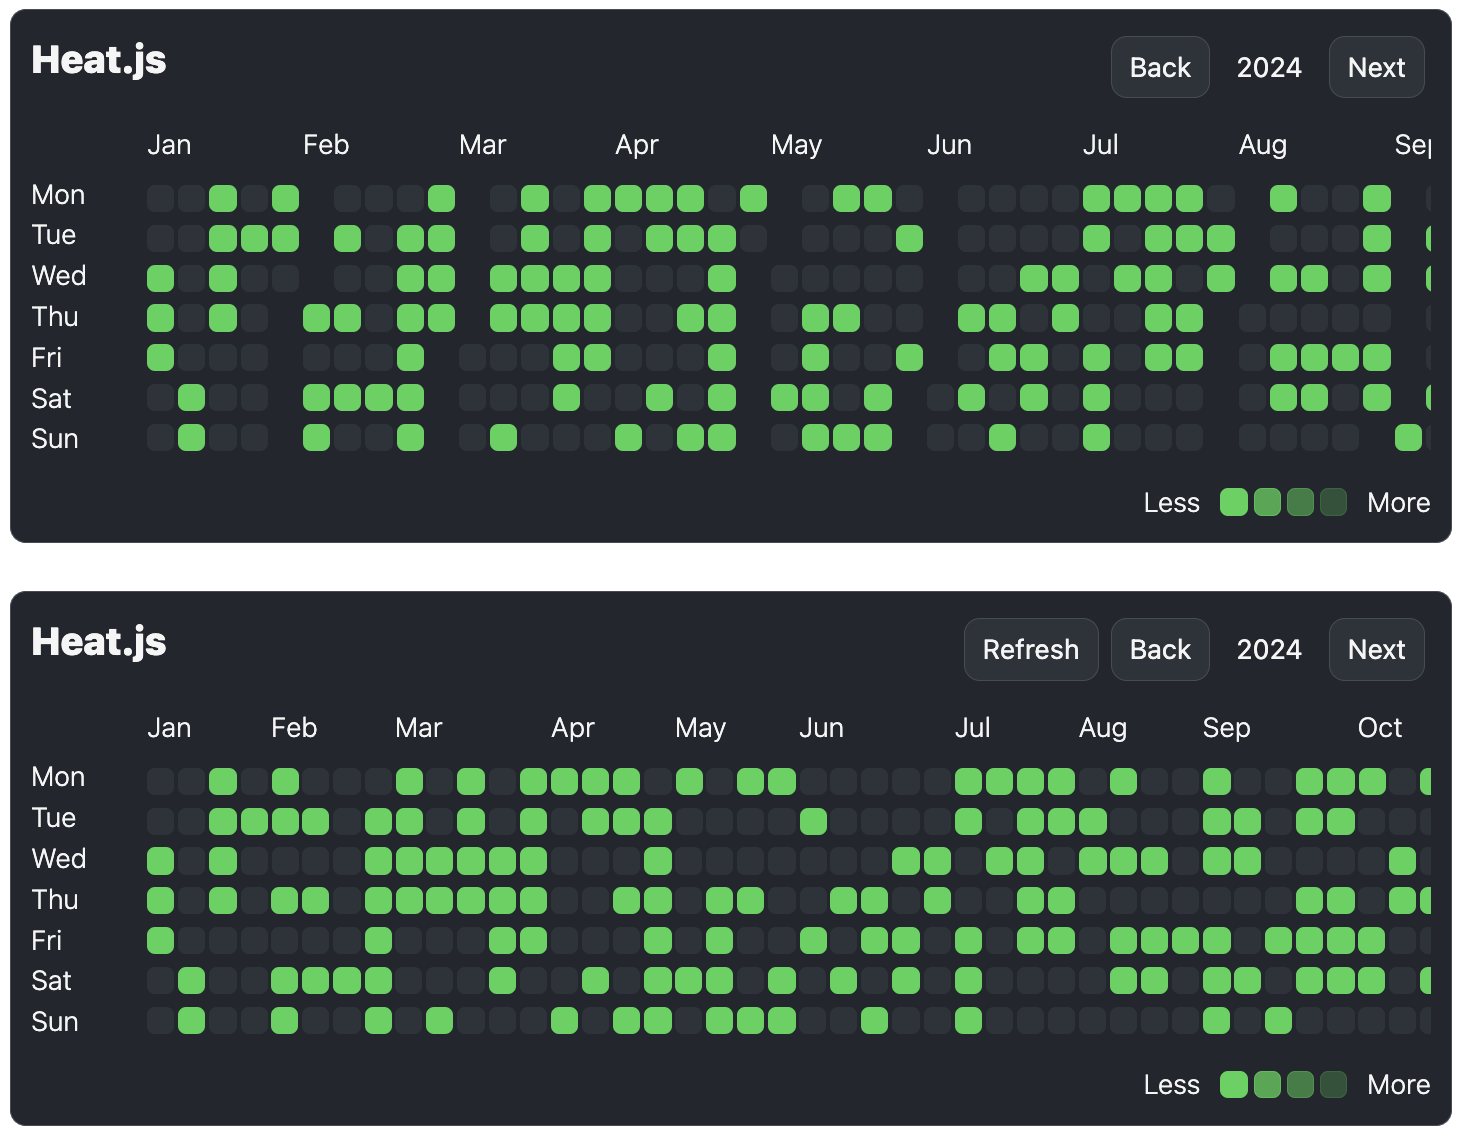
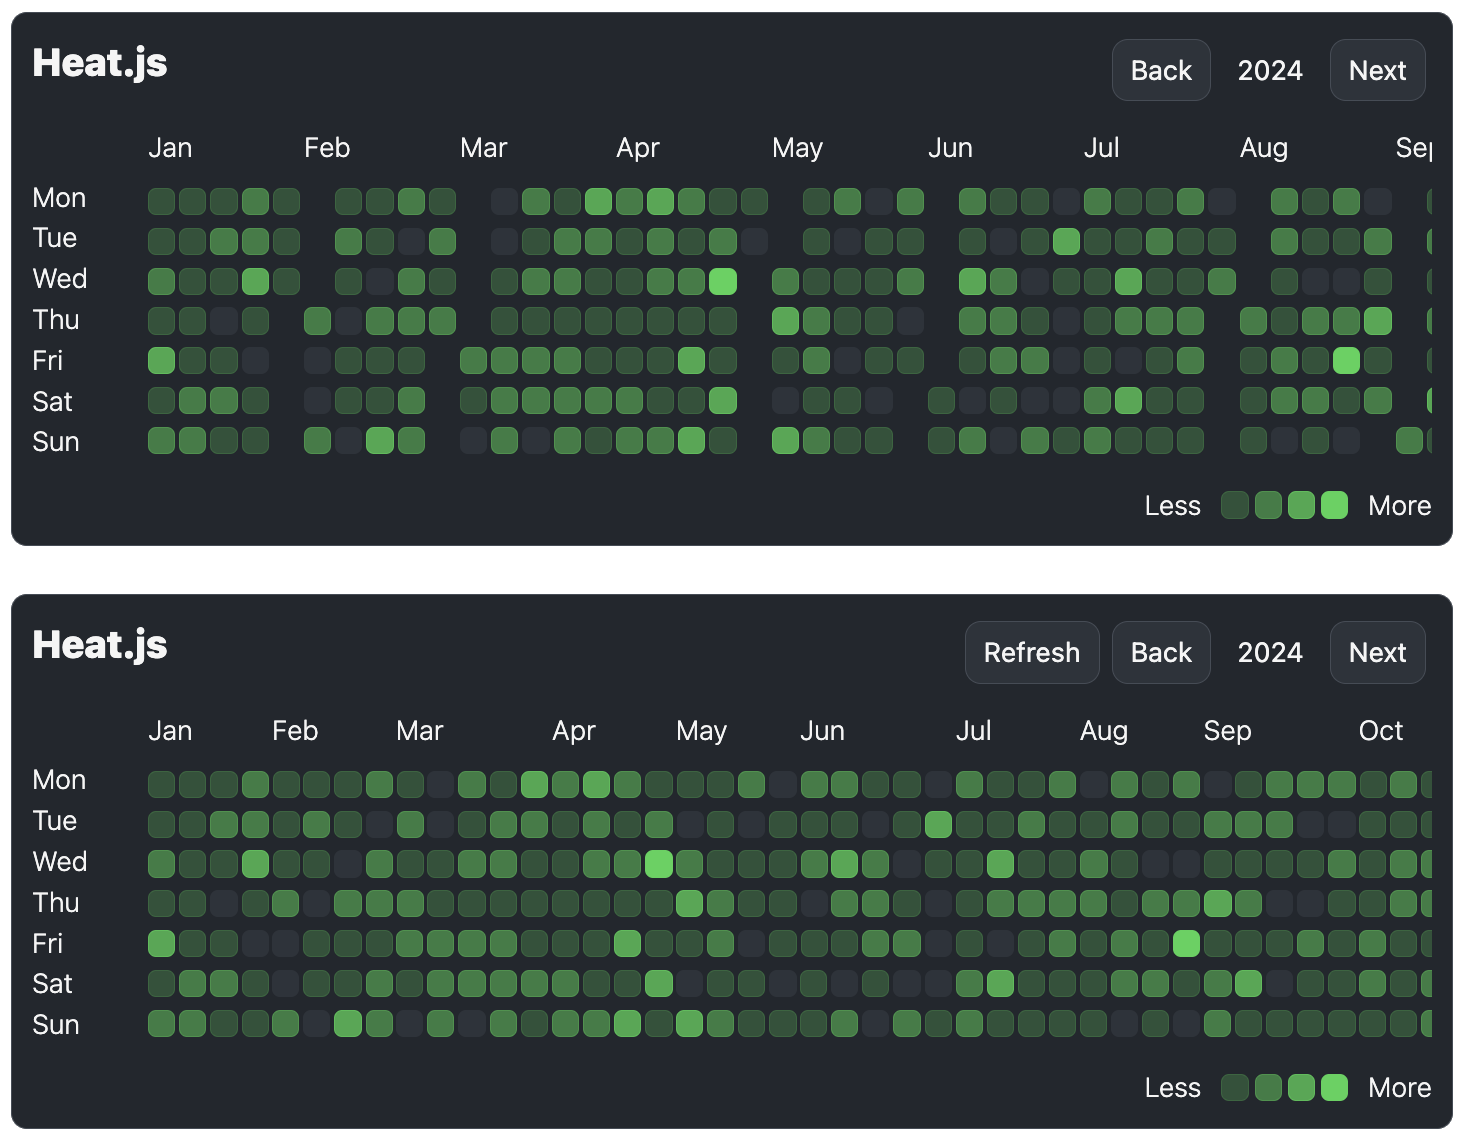
Updated the main image.

diff --git a/test/dist/heat.js.bootstrap.html b/test/dist/heat.js.bootstrap.html
@@ -76,7 +76,7 @@
         function updateDates( remove ) {
             var date = new Date( new Date().getFullYear(), 0, 1 );
 
-            for ( var dayNumber = 0; dayNumber < 3500; dayNumber++ ) {
+            for ( var dayNumber = 0; dayNumber < 5000; dayNumber++ ) {
                 var daysToIncrease = Math.floor( Math.random() * 365 ),
                     newDate = new Date( date );
 

diff --git a/test/src/heat.js.bootstrap.html b/test/src/heat.js.bootstrap.html
@@ -77,7 +77,7 @@
         function updateDates( remove ) {
             var date = new Date( new Date().getFullYear(), 0, 1 );
 
-            for ( var dayNumber = 0; dayNumber < 3500; dayNumber++ ) {
+            for ( var dayNumber = 0; dayNumber < 5000; dayNumber++ ) {
                 var daysToIncrease = Math.floor( Math.random() * 365 ),
                     newDate = new Date( date );
 
